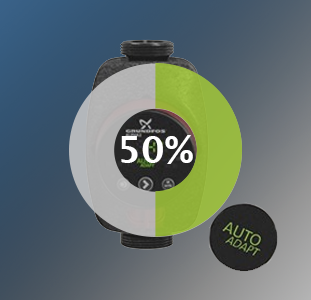
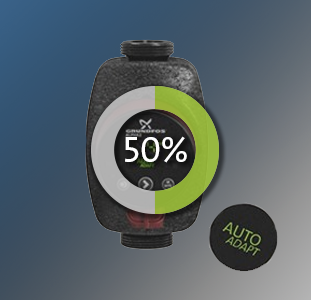
Edit JumpIn pictures

diff --git a/index.html b/index.html
@@ -81,7 +81,7 @@
 							</div>
 						</li>
 						<li class="slider_box XXX">
-                            <img class="box_img" src="images/trykfor.png25.png">
+                            <img class="box_img" src="images/trykfor50.png">
 							<div class="slider_box_text">
 								<h3>PREASURE BOOSTER</h3>
                                 <div class="jumpIn">
